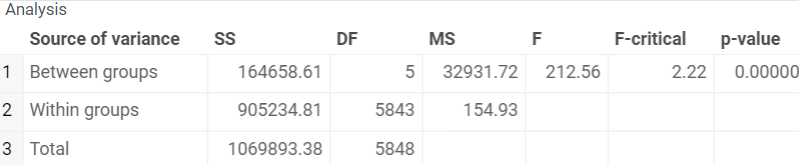
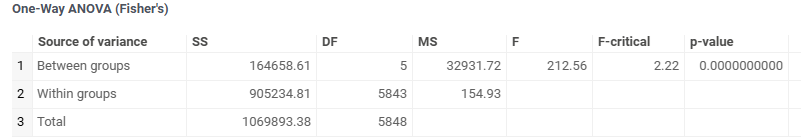
GROK-20160: Help: Update ANOVA
Update the ANOVA docs w.r.t. the feature update

diff --git a/help/explore/anova.md b/help/explore/anova.md
@@ -3,17 +3,27 @@ title: "Analysis of variances"
 sidebar_position: 6
 ---
 
-Analysis of variance ([ANOVA](https://en.wikipedia.org/wiki/Analysis_of_variance)) determines whether the examined factor has a significant impact on the studied feature.
+Analysis of variance ([ANOVA](https://en.wikipedia.org/wiki/Analysis_of_variance))
+determines whether the examined factor has a significant impact on the studied
+feature.
 
-1. Open a table
+1. Open a table.
 2. Run **Top Menu > ML > Analyze > ANOVA...**. A dialog opens.
-3. In the dialog, specify
+3. In the dialog, specify:
    * the column with factor values (in the `Category` field)
-   * the column with features values (in the `Feature` field)
+   * the column with feature values (in the `Feature` field)
+   * the analysis method (in the `Method` field): `Welch` or `Fisher`
    * the significance level (in the `Alpha` field)
 4. Click `Run` to execute. The following analysis appears:
 
 ![add-to-workspace](anova.gif)
+
+>Datagrok supports two one-way ANOVA methods:
+>
+>* **Welch** (default) - robust to unequal variances across groups. Recommended unless you have strong reason to assume equal variances.
+>* **Fisher** - classical ANOVA. More powerful when variances are equal, but
+>  unreliable otherwise. You can't run the analysis if group variances differ
+>  significantly - switch to Welch in that case.
 
 The box plot shows the distribution of values by categories:
 
@@ -23,12 +33,19 @@ The `Analysis` tab presents a table with ANOVA computations:
 
 ![anova-summary-table.png](anova-summary-table.png)
 
-Click the `F-test` tab and explore the null hypothesis testing:
+>The Fisher and Welch methods show different columns:
+>
+>* **Fisher**: sums of squares (SS), degrees of freedom (DF), mean squares (MS),
+>  F-statistic, critical F-value, and p-value - split into Between groups,
+>  Within groups, and Total.
+>* **Welch**: F-statistic, numerator df (k − 1), Welch–Satterthwaite denominator
+>  df (fractional), critical F-value, and p-value - Welch's test has no SS/MS
+>  decomposition by design.
 
-![add-to-workspace](anova-f-test.gif)
+Click the `Conclusion` tab to explore the null hypothesis testing:
+
+![add-to-workspace](anova-conclusions.gif)
 
 See also:
 
-* [Statistical hypothesis testing](https://en.wikipedia.org/wiki/Statistical_hypothesis_testing)
-* [One-way ANOVA](https://en.wikipedia.org/wiki/One-way_analysis_of_variance)
 * [Box plot](https://datagrok.ai/help/visualize/viewers/box-plot)